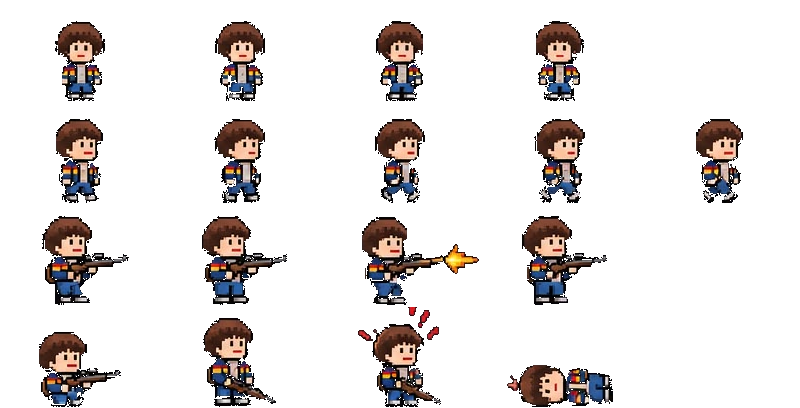
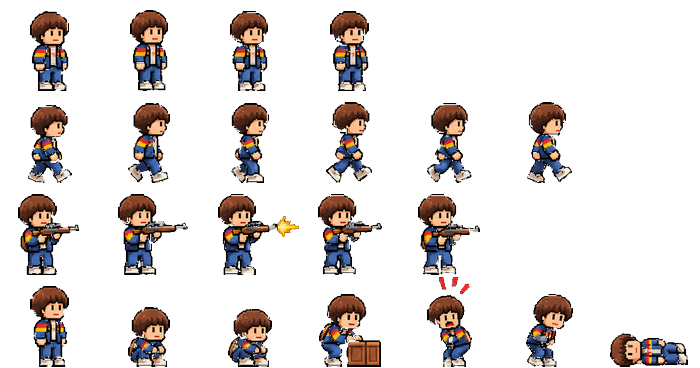
Nuevos sprites de Will y Demogorgon: caminar de 6 frames, golpe en dos tiempos, herido y muerte animada

diff --git a/js/game.js b/js/game.js
@@ -353,10 +353,10 @@ function updatePlayer(dt) {
 
 function playerPose(p) {
   const id = p.id, mv = Math.abs(p.vx) > 5;
-  if (p.dead) return id === 'steve' ? ['hurt', 3] : ['other', 3];
-  if (p.hurtT > 0) return id === 'steve' ? ['hurt', 0] : id === 'will' ? ['other', 2] : ['other', 1];
+  if (p.dead) return id === 'steve' ? ['hurt', 3] : ['other', id === 'will' ? 6 : 3];
+  if (p.hurtT > 0) return id === 'steve' ? ['hurt', 0] : id === 'will' ? ['other', 4] : ['other', 1];
   if (p.melee > 0) return ['attack', Math.min(4, Math.floor((1 - p.melee / 0.36) * 5))];
-  if (p.crouch) return ['other', 0];
+  if (p.crouch) return ['other', id === 'will' ? 1 : 0];
   if (p.shootT > 0) {
     const hot = p.shootT > 0.12;
     if (id === 'will') return ['shoot', hot ? 2 : 1];
@@ -390,6 +390,7 @@ function dropFrom(e) {
 function damageEnemy(e, d, dir = 1) {
   if (e.dead || e.dying || e.inv) return;
   e.hp -= d; e.flash = 0.1;
+  if (e.type !== 'brute' && e.type !== 'vecna') e.hurtT = 0.2;
   burst(e.x, e.y - e.h * 0.6, 4, '#c8c', 140, 0.3);
   Snd.hit();
   if (e.hp <= 0) {
@@ -420,10 +421,10 @@ function enemyPhysics(e, dt) {
 
 function updateEnemy(e, dt) {
   const p = G.p, T = ETYPES[e.type];
-  e.animT += dt; e.t += dt; if (e.flash > 0) e.flash -= dt; if (e.jumpCd > 0) e.jumpCd -= dt;
+  e.animT += dt; e.t += dt; if (e.flash > 0) e.flash -= dt; if (e.jumpCd > 0) e.jumpCd -= dt; if (e.hurtT > 0) e.hurtT -= dt;
   if (e.dying) {
     if (e.type === 'vecna') { updateVecna(e, dt); return; }
-    e.dying += dt; if (e.dying > 0.55) e.dead = true; return;
+    e.dying += dt; if (e.dying > 1.25) e.dead = true; return;
   }
   if (e.type === 'vecna') { updateVecna(e, dt); return; }
 
@@ -889,15 +890,15 @@ function drawEnemy(e, camX) {
   const T = ETYPES[e.type];
   let anim = 'idle', f = Math.floor(e.animT * 4) % 4;
   if (e.state === 'roar') { anim = 'roar'; f = Math.floor(e.t * 8) % 4; }
-  else if (e.state === 'walk') { anim = 'walk'; f = Math.floor(e.animT * (e.type === 'runner' ? 13 : 7)) % 4; }
+  else if (e.state === 'walk') { anim = 'walk'; f = Math.floor(e.animT * (e.type === 'runner' ? 14 : 8)) % ATLAS.demogorgon.anims.walk.n; }
   else if (e.state === 'wind') { anim = 'attack'; f = e.t < T.wind * 0.5 ? 0 : 1; }
-  else if (e.state === 'swipe') { anim = 'attack'; f = 2; }
-  else if (e.state === 'recover') { anim = 'attack'; f = 3; }
-  if (e.dying) {
-    const k = e.dying / 0.55;
-    ctx.save(); ctx.translate(x, e.y); ctx.scale(1 + k * 0.2, 1 - k * 0.5); ctx.translate(-x, -e.y);
-    sprite('demogorgon', 'idle', 0, x, e.y, e.sc, flip, Math.max(0, 1 - k));
-    ctx.restore(); return;
+  else if (e.state === 'swipe') { anim = 'attack'; f = e.t < 0.1 ? 2 : 3; }
+  else if (e.state === 'recover') { anim = 'attack'; f = 4; }
+  if (e.hurtT > 0 && (e.state === 'walk' || e.state === 'roar')) { anim = 'hurt'; f = 1; }
+  if (e.dying) { // animación de muerte (5 frames) y desvanecido final
+    const fr = Math.min(4, Math.floor(e.dying / 0.16)), fade = e.dying > 0.95 ? Math.max(0, 1 - (e.dying - 0.95) / 0.3) : 1;
+    sprite('demogorgon', 'die', fr, x, e.y, e.sc, flip, fade);
+    return;
   }
   // sombra
   ctx.fillStyle = 'rgba(0,0,0,.35)'; ctx.beginPath(); ctx.ellipse(x, (e.grounded ? e.y : GROUND) + 2, 30 * e.sc / 1.1, 6, 0, 0, 7); ctx.fill();
@@ -1221,6 +1222,7 @@ loadAll().then(() => {
     G.banner = q.get('boss') || q.get('at') ? 0 : G.banner;
     if (q.get('bomb')) { G.p.gren = 5; throwGrenade(G.p); }
     for (let i = 0; i < (+q.get('ff') || 0) * 60; i++) updatePlay(1 / 60);
+    if (q.get('kill')) { G.enemies.forEach(e => damageEnemy(e, 99)); for (let i = 0; i < (+q.get('kill')) * 60; i++) updatePlay(1 / 60); }
     if (q.get('menu')) { G.state = 'pause'; openMenu(q.get('menu')); }
   }
 });

diff --git a/js/atlas.js b/js/atlas.js
@@ -1,8 +1,8 @@
 window.ATLAS = {
  "will": {
   "img": "assets/will.png",
-  "cw": 160,
-  "ch": 102,
+  "cw": 100,
+  "ch": 92,
   "anims": {
    "idle": {
     "row": 0,
@@ -10,22 +10,22 @@ window.ATLAS = {
    },
    "walk": {
     "row": 1,
-    "n": 5
+    "n": 6
    },
    "shoot": {
     "row": 2,
-    "n": 4
+    "n": 5
    },
    "other": {
     "row": 3,
-    "n": 4
+    "n": 7
    }
   }
  },
  "demogorgon": {
   "img": "assets/demogorgon.png",
-  "cw": 190,
-  "ch": 110,
+  "cw": 142,
+  "ch": 115,
   "anims": {
    "idle": {
     "row": 0,
@@ -33,15 +33,23 @@ window.ATLAS = {
    },
    "walk": {
     "row": 1,
-    "n": 4
+    "n": 6
    },
    "attack": {
     "row": 2,
-    "n": 4
+    "n": 5
    },
    "roar": {
     "row": 3,
     "n": 4
+   },
+   "hurt": {
+    "row": 4,
+    "n": 5
+   },
+   "die": {
+    "row": 5,
+    "n": 5
    }
   }
  },

diff --git a/sw.js b/sw.js
@@ -1,6 +1,6 @@
 /* Service worker: deja el juego instalable y jugable sin conexión.
  * Estrategia "stale-while-revalidate": sirve de la caché y actualiza en segundo plano. */
-const CACHE = 'stranger-slug-v1';
+const CACHE = 'stranger-slug-v2';
 const ASSETS = [
   './', 'index.html', 'manifest.webmanifest',
   'js/atlas.js', 'js/game.js', 'js/touch.js',

diff --git a/tools/build_assets.py b/tools/build_assets.py
@@ -109,7 +109,7 @@ def cut(crop, run, bg, thr=26, solid=False, boost=1.0):
         print('   (aviso) frame toca el borde vertical del recorte', 'arriba' if bb[1] <= 0 else 'abajo')
     return out.crop(bb)
 
-def build_char(name, sheet, bg, rows, thr=26, blank=(), solid=False, boost=1.0):
+def build_char(name, sheet, bg, rows, thr=26, blank=(), solid=False, boost=1.0, idle_h=None):
     """rows: {anim: (box, expected_count, anchor)}  anchor: 'c' centro | ('l', offset)"""
     img = Image.open(os.path.join(SRC, sheet)).convert('RGB')
     from PIL import ImageDraw
@@ -126,6 +126,11 @@ def build_char(name, sheet, bg, rows, thr=26, blank=(), solid=False, boost=1.0):
             if fr is None: continue
             ax = fr.width/2 if anchor == 'c' else anchor[1]
             items.append((anim, i, fr, ax))
+    if idle_h:  # normaliza la escala para que el idle mida idle_h px (mismo tamaño que en el juego)
+        h0 = next(fr.height for a, i, fr, _ in items if a == 'idle' and i == 0)
+        k = idle_h / h0
+        items = [(a, i, fr.resize((max(1, round(fr.width*k)), max(1, round(fr.height*k))), Image.LANCZOS), ax*k) for a, i, fr, ax in items]
+        print(f'  escala {name}: x{k:.3f}')
     half = max(max(ax, fr.width-ax) for _, _, fr, ax in items)
     cw = int(half*2)+2
     ch = max(fr.height for _, _, fr, _ in items)+2
@@ -145,19 +150,21 @@ def build_char(name, sheet, bg, rows, thr=26, blank=(), solid=False, boost=1.0):
 DARK = (22, 18, 30)
 atlas = {}
 
-# --- Will / Demogorgon (WA0024)
-atlas['will'] = build_char('will', 'IMG-20261121-WA0024.jpg', DARK, {
-    'idle':  ((1025, 30, 1500, 130), 4, 'c'),
-    'walk':  ((1025, 132, 1500, 230), 5, 'c'),
-    'shoot': ((1025, 232, 1500, 340), 4, ('l', 38)),
-    'other': ((1025, 355, 1500, 470), 4, 'c'),
-})
-atlas['demogorgon'] = build_char('demogorgon', 'IMG-20261121-WA0024.jpg', DARK, {
-    'idle':   ((1050, 514, 1500, 632), 4, 'c'),
-    'walk':   ((1040, 632, 1500, 738), 4, 'c'),
-    'attack': ((1045, 728, 1510, 838), 4, ('l', 45)),
-    'roar':   ((1050, 836, 1500, 962), 4, 'c'),
-}, blank=[(1040, 508, 1510, 520)])
+# --- Will y Demogorgon: hojas nuevas (will.png / demogorgon.png)
+atlas['will'] = build_char('will', 'will.png', (21, 16, 24), {
+    'idle':  ((55, 538, 575, 690), 4, 'c'),
+    'walk':  ((635, 538, 1450, 690), 6, 'c'),
+    'shoot': ((40, 768, 712, 925), 5, ('l', 52)),
+    'other': ((735, 764, 1520, 925), 7, 'c'),
+}, idle_h=80, blank=[(40, 490, 215, 540), (625, 490, 790, 540), (40, 712, 250, 764), (745, 712, 975, 764)])
+atlas['demogorgon'] = build_char('demogorgon', 'demogorgon.png', (19, 18, 25), {
+    'idle':   ((45, 452, 595, 595), 4, 'c'),
+    'walk':   ((622, 452, 1490, 595), 6, 'c'),
+    'attack': ((38, 648, 795, 778), 5, ('l', 62)),
+    'roar':   ((828, 606, 1505, 778), 4, 'c'),
+    'hurt':   ((38, 828, 708, 978), 5, 'c'),
+    'die':    ((738, 834, 1515, 978), 5, 'c'),
+}, idle_h=92, blank=[(30, 405, 200, 463), (630, 405, 782, 463), (30, 598, 242, 647), (826, 598, 1006, 647), (28, 783, 216, 833), (740, 783, 845, 833)])
 # --- Eleven (WA0025)
 E = 'IMG-20261121-WA0025.jpg'
 atlas['eleven'] = build_char('eleven', E, DARK, {
